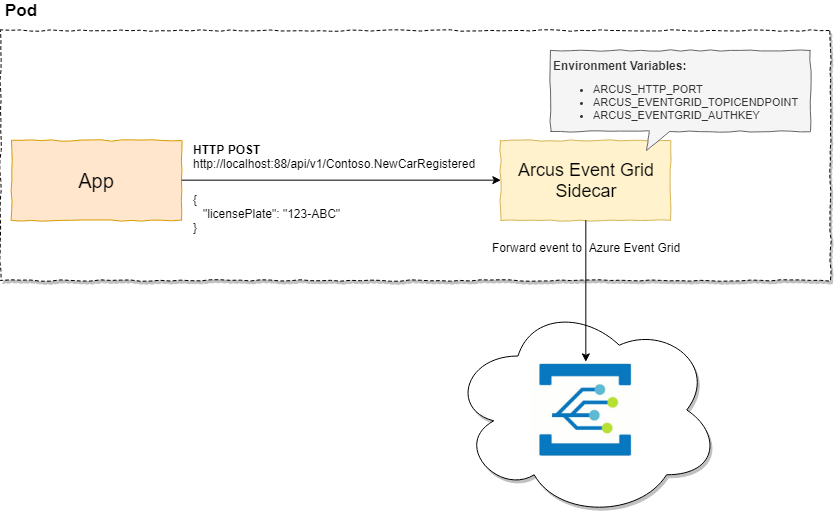
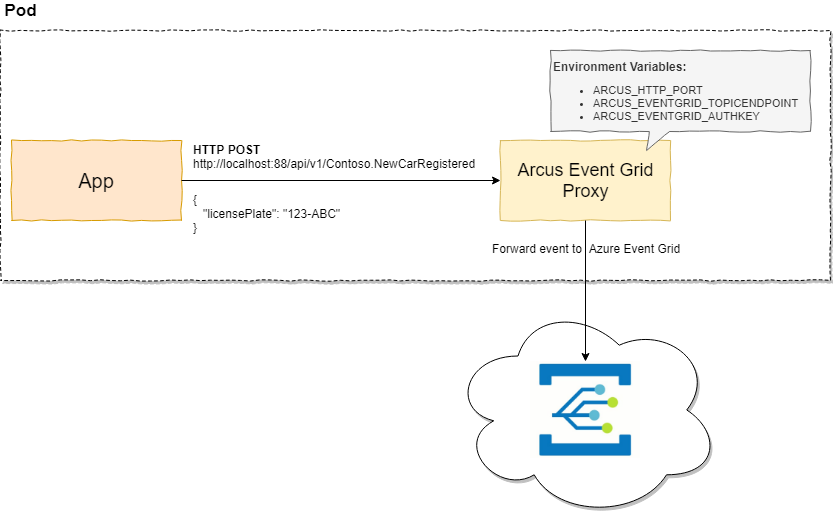
Rebrand "Arcus Event Grid Sidecar" to "Arcus Event Grid Proxy" (#30)
* Rebrand in docs & README

* Change codebase to Proxy as well

* Update Dockerfile with new naming

* Finalize rebranding

diff --git a/src/Arcus.EventGrid.Proxy.Api/Extensions/IServiceCollectionExtensions.cs b/src/Arcus.EventGrid.Proxy.Api/Extensions/IServiceCollectionExtensions.cs
@@ -1,9 +1,10 @@
 using System.IO;
 using System.Linq;
 using Microsoft.AspNetCore.Hosting;
+using Microsoft.Extensions.DependencyInjection;
 using Swashbuckle.AspNetCore.Swagger;
 
-namespace Microsoft.Extensions.DependencyInjection
+namespace Arcus.EventGrid.Proxy.Api.Extensions
 {
     public static class IServiceCollectionExtensions
     {
@@ -17,15 +18,15 @@ namespace Microsoft.Extensions.DependencyInjection
             {
                 Contact = new Contact
                 {
-                    Name = "Arcus",
-                    Url = "https://github.com/arcus-azure/arcus.eventgrid.sidecar"
+                    Name = "Arcus Event Grid Proxy",
+                    Url = "https://github.com/arcus-azure/arcus.eventgrid.proxy"
                 },
-                Title = "Arcus",
+                Title = "Arcus Event Grid Proxy",
                 Description = "Push events to Azure Event Grid in a breeze - API allows you to send events over REST without having to worry about how Azure Event Grid works.",
                 License = new License
                 {
                     Name = "MIT",
-                    Url = "https://github.com/arcus-azure/arcus.eventgrid.sidecar/blob/master/LICENSE"
+                    Url = "https://github.com/arcus-azure/arcus.eventgrid.proxy/blob/master/LICENSE"
                 }
             };
 

diff --git a/src/Arcus.EventGrid.Proxy.Api/Extensions/IApplicationBuilderExtensions.cs b/src/Arcus.EventGrid.Proxy.Api/Extensions/IApplicationBuilderExtensions.cs
@@ -1,6 +1,7 @@
-using Swashbuckle.AspNetCore.SwaggerUI;
+using Microsoft.AspNetCore.Builder;
+using Swashbuckle.AspNetCore.SwaggerUI;
 
-namespace Microsoft.AspNetCore.Builder
+namespace Arcus.EventGrid.Proxy.Api.Extensions
 {
     public static class IApplicationBuilderExtensions
     {
@@ -13,10 +14,10 @@ namespace Microsoft.AspNetCore.Builder
             applicationBuilder.UseSwagger();
             applicationBuilder.UseSwaggerUI(swaggerUiOptions =>
             {
-                swaggerUiOptions.SwaggerEndpoint("/swagger/v1/swagger.json", "Arcus Event Grid v1 API");
+                swaggerUiOptions.SwaggerEndpoint("/swagger/v1/swagger.json", "Arcus Event Grid Proxy v1 API");
                 swaggerUiOptions.DisplayOperationId();
                 swaggerUiOptions.EnableDeepLinking();
-                swaggerUiOptions.DocumentTitle = "Arcus Event Grid API";
+                swaggerUiOptions.DocumentTitle = "Arcus Event Grid Proxy API";
                 swaggerUiOptions.DocExpansion(DocExpansion.List);
                 swaggerUiOptions.DisplayRequestDuration();
                 swaggerUiOptions.EnableFilter();

diff --git a/src/Arcus.EventGrid.Proxy.Api/Startup.cs b/src/Arcus.EventGrid.Proxy.Api/Startup.cs
@@ -1,10 +1,11 @@
-using Microsoft.AspNetCore.Builder;
+using Arcus.EventGrid.Proxy.Api.Extensions;
+using Microsoft.AspNetCore.Builder;
 using Microsoft.AspNetCore.Hosting;
 using Microsoft.AspNetCore.Mvc;
 using Microsoft.Extensions.Configuration;
 using Microsoft.Extensions.DependencyInjection;
 
-namespace Arcus.EventGrid.Sidecar.Api
+namespace Arcus.EventGrid.Proxy.Api
 {
     public class Startup
     {

diff --git a/src/Arcus.EventGrid.Proxy.Api/Controllers/v1/EventsController.cs b/src/Arcus.EventGrid.Proxy.Api/Controllers/v1/EventsController.cs
@@ -3,7 +3,7 @@ using System.Net;
 using Microsoft.AspNetCore.Mvc;
 using Swashbuckle.AspNetCore.Annotations;
 
-namespace Arcus.EventGrid.Sidecar.Api.Controllers.v1
+namespace Arcus.EventGrid.Proxy.Api.Controllers.v1
 {
     [Route("api/v1/events")]
     [ApiController]

diff --git a/src/Arcus.EventGrid.Proxy.Api/Controllers/v1/HealthController.cs b/src/Arcus.EventGrid.Proxy.Api/Controllers/v1/HealthController.cs
@@ -2,7 +2,7 @@
 using Microsoft.AspNetCore.Mvc;
 using Swashbuckle.AspNetCore.Annotations;
 
-namespace Arcus.EventGrid.Sidecar.Api.Controllers.v1
+namespace Arcus.EventGrid.Proxy.Api.Controllers.v1
 {
     [Route("api/v1/health")]
     [ApiController]

diff --git a/src/Arcus.EventGrid.Proxy.Api/Program.cs b/src/Arcus.EventGrid.Proxy.Api/Program.cs
@@ -2,7 +2,7 @@
 using Microsoft.AspNetCore;
 using Microsoft.AspNetCore.Hosting;
 
-namespace Arcus.EventGrid.Sidecar.Api
+namespace Arcus.EventGrid.Proxy.Api
 {
     public class Program
     {

diff --git a/src/Arcus.EventGrid.Proxy.Api/EnvironmentVariables.cs b/src/Arcus.EventGrid.Proxy.Api/EnvironmentVariables.cs
@@ -1,4 +1,4 @@
-namespace Arcus.EventGrid.Sidecar.Api
+namespace Arcus.EventGrid.Proxy.Api
 {
     public class EnvironmentVariables
     {

diff --git a/README.md b/README.md
@@ -1,20 +1,20 @@
-# Arcus - Azure Event Grid Sidecar
+# Arcus - Azure Event Grid Proxy
 [![License](https://img.shields.io/github/license/mashape/apistatus.svg?style=flat-square)](./LICENSE)
-[![Build Status](https://dev.azure.com/codit/Arcus/_apis/build/status/Commit%20builds/CI%20-%20Arcus.EventGrid.Sidecar)](https://dev.azure.com/codit/Arcus/_build/latest?definitionId=552)
-[![Docker Pulls](https://img.shields.io/docker/pulls/arcusazure/azure-event-grid-sidecar.svg?style=flat-square)](https://hub.docker.com/r/arcusazure/azure-event-grid-sidecar/) 
-[![Docker Stars](https://img.shields.io/docker/stars/arcusazure/azure-event-grid-sidecar.svg?style=flat-square)](https://hub.docker.com/r/arcusazure/azure-event-grid-sidecar/)
+[![Build Status](https://dev.azure.com/codit/Arcus/_apis/build/status/Commit%20builds/CI%20-%20Arcus.EventGrid.Proxy)](https://dev.azure.com/codit/Arcus/_build/latest?definitionId=552)
+[![Docker Pulls](https://img.shields.io/docker/pulls/arcusazure/azure-event-grid-proxy.svg?style=flat-square)](https://hub.docker.com/r/arcusazure/azure-event-grid-proxy/) 
+[![Docker Stars](https://img.shields.io/docker/stars/arcusazure/azure-event-grid-proxy.svg?style=flat-square)](https://hub.docker.com/r/arcusazure/azure-event-grid-proxy/)
 
-Sidecar for sending events to Azure Event Grid.
+Proxy for sending events to Azure Event Grid.
 
 ![Arcus](https://raw.githubusercontent.com/arcus-azure/arcus/master/media/arcus.png)
 
 # Installation
-The image is available on [Docker Hub](https://cloud.docker.com/u/arcusazure/repository/docker/arcusazure/azure-event-grid-sidecar) and can be installed via [Docker](https://eventgrid-sidecar.arcus-azure.net/#installation).
+The image is available on [Docker Hub](https://cloud.docker.com/u/arcusazure/repository/docker/arcusazure/azure-event-grid-proxy) and can be installed via [Docker](https://eventgrid-proxy.arcus-azure.net/#installation).
 
 # Documentation
-All documentation can be found on [here](https://eventgrid-sidecar.arcus-azure.net/).
+All documentation can be found on [here](https://eventgrid-proxy.arcus-azure.net/).
 
 # License Information
 This is licensed under The MIT License (MIT). Which means that you can use, copy, modify, merge, publish, distribute, sublicense, and/or sell copies of the web application. But you always need to state that Codit is the original author of this web application.
 
-Read the full license [here](https://github.com/arcus-azure/arcus.eventgrid.sidecar/blob/master/LICENSE).
+Read the full license [here](https://github.com/arcus-azure/arcus.eventgrid.proxy/blob/master/LICENSE).

diff --git a/docs/index.md b/docs/index.md
@@ -6,24 +6,24 @@ redirect_from:
  - /index.html
 ---
 
-**Arcus Event Grid Sidecar** is a container that makes it easier to integrate with Azure Event Grid.
+**Arcus Event Grid Proxy** is a container that makes it easier to integrate with Azure Event Grid.
 
 ![Arcus Logo](https://raw.githubusercontent.com/arcus-azure/arcus/master/media/arcus.png)
 
 # Installation
-Running Arcus Event Grid Sidecar is super easy:
+Running Arcus Event Grid Proxy is super easy:
 ```
-docker run -d -p 8999:80 --name arcus arcusazure/azure-event-grid-sidecar
+docker run -d -p 8999:80 --name arcus arcusazure/azure-event-grid-proxy
 ```
 
-Docker image will be available on [Docker Hub](https://hub.docker.com/r/arcusazure/azure-event-grid-sidecar).
+Docker image will be available on [Docker Hub](https://hub.docker.com/r/arcusazure/azure-event-grid-proxy).
 
 # Features
 - Monitor runtime with a health endpoint ([docs](operations/health))
 
 # Documentation
 - **Concepts**
-    - [Using Arcus Event Grid Sidecar](concepts/architecture)
+    - [Using Arcus Event Grid Proxy](concepts/architecture)
 - **Deployment**
     - [Image Tagging Strategy](deploy/tagging-strategy)
 - **Configuration**
@@ -32,4 +32,4 @@ Docker image will be available on [Docker Hub](https://hub.docker.com/r/arcusazu
 # License
 This is licensed under The MIT License (MIT). Which means that you can use, copy, modify, merge, publish, distribute, sublicense, and/or sell copies of the web application. But you always need to state that Codit is the original author of this web application.
 
-*[Full license here](https://github.com/arcus-azure/arcus.eventgrid.sidecar/blob/master/LICENSE)*
+*[Full license here](https://github.com/arcus-azure/arcus.eventgrid.proxy/blob/master/LICENSE)*

diff --git a/docs/README.md b/docs/README.md
@@ -1,7 +1,7 @@
 Documentation
 ====
 
-All documentation for Arcus Event Grid Sidecar which are published via GitHub Pages with Jekyll.
+All documentation for Arcus Event Grid Proxy which are published via GitHub Pages with Jekyll.
 
 ## Running Jekyll locally
 

diff --git a/docs/concepts/architecture.md b/docs/concepts/architecture.md
@@ -1,6 +1,6 @@
 ---
 layout: default
-title: Using Arcus Event Grid Sidecar
+title: Using Arcus Event Grid Proxy
 ---
 
 # Architecture
